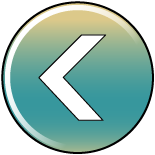
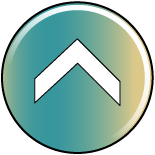
1. 하단에서 메뉴 올라오는 효과 2. 위치가 전체적으로 불규칙적인것같다. 전체적으로 수정해야할듯! -> 지금하지않으면 나중에 더힘들더질것같음. 3. 코드 정리 및 구조 정리 필요함..

diff --git a/Idolls/MyroomScene.cpp b/Idolls/MyroomScene.cpp
@@ -13,18 +13,24 @@ using namespace cocos2d;
 
 #define IMG_WIDTH 441
 
+CCSize winSize;
+
+CCLayerColor *bglayer;
+CCLayerColor *popoffMenuLayer;
+CCLayerColor *popupMenuLayer;
+
 CCScene* MyroomScene::scene()
 {
-
+    
     CCScene *scene = CCScene::create();
     
-
+    
     MyroomScene *layer = MyroomScene::create();
     
-
+    
     scene->addChild(layer);
     
-
+    
     return scene;
 }
 
@@ -37,18 +43,16 @@ bool MyroomScene::init()
         return false;
     }
     
+    // 디바이스 사이즈
+    //    CCSize winSize = CCDirector::sharedDirector()->getWinSize();
+    winSize = CCDirector::sharedDirector()->getWinSize();
     //배경
-    CCSprite *bg1 = CCSprite::create("background1.png");
-    bg1->setScale(1);
-    bg1->setPosition(ccp(160,240));
+    CCSprite *bg1 = CCSprite::create("myroom_background.png");
+    bg1->setScale(winSize.width/3200*2.5);
+    bg1->setPosition(ccp(winSize.width/2,winSize.height/2));
     
-    //헤더
-    CCSprite *hd1 = CCSprite::create("top_bar.png");
-    hd1->setPosition(ccp(160,455));
-    
-    
-//    마이룸배경레이어
-    CCLayerColor *bglayer= CCLayerColor::create(ccc4(255,0,255,255));
+    //    마이룸배경레이어
+    bglayer= CCLayerColor::create(ccc4(255,0,255,255));
     bglayer->setAnchorPoint(CCPointZero);
     bglayer->setPosition(ccp(0,0));
     bglayer->setContentSize(CCSizeMake(320,480));
@@ -66,65 +70,73 @@ bool MyroomScene::init()
     scrollView->setDelegate(this);
     this->addChild(scrollView);
     
-//    헤더레이어
-    CCLayerColor *hdlayer = CCLayerColor::create(ccc4(255,0,255,255));
-    hdlayer->setAnchorPoint(CCPointZero);
-    hdlayer->setPosition(ccp(0,0));
-    hdlayer->setContentSize(CCSizeMake(320, 50));
-    hdlayer->addChild(hd1);
-    
-//    헤더 코인/스타
-    CCMenuItemImage *pMenuStars = CCMenuItemImage::create("money_star_box.png","money_star_box.png",this, menu_selector(MyroomScene::stars));
-    CCMenuItemImage *pMenuCoins = CCMenuItemImage::create("money_coin_box.png","money_coin_box.png",this, menu_selector(MyroomScene::coins));
-
-    CCMenu* pHdMenu = CCMenu::create(pMenuStars,pMenuCoins,NULL);
-    pHdMenu->alignItemsHorizontally();
-    pHdMenu->setPosition(ccp(220,450));
-    
-    hdlayer->addChild(pHdMenu);
-    
-    CCSprite *nickName = CCSprite::create("nick_box.png");
-
-    nickName->setPosition(ccp(65,450));
-    hdlayer->addChild(nickName);
-    
-    this->addChild(hdlayer);
+    //    헤더레이어
+    /*
+     CCLayerColor *hdlayer = CCLayerColor::create(ccc4(255,0,255,255));
+     hdlayer->setAnchorPoint(CCPointZero);
+     hdlayer->setPosition(ccp(0,0));
+     hdlayer->setContentSize(CCSizeMake(320, 50));
+     hdlayer->addChild(hd1);*/
     
     
-//    캐릭터
-    maincharacter = CCSprite::create("character.png");
+    
+    //머니 박스
+    /*
+     CCSprite* money_box = CCSprite::create("money_box.png");
+     
+     money_box->setScale(winSize.width/3200*2.5);
+     
+     money_box->setPosition(ccp(winSize.width/10*6.7,winSize.height/10*9.6));
+     
+     this->addChild(money_box);*/
+    
+    
+    //    헤더 코인/스타
+    CCMenuItemImage *money_star_button = CCMenuItemImage::create("money_star_button.png","money_star_button.png",this, menu_selector(MyroomScene::stars));
+    
+    CCMenuItemImage *money_coin_button = CCMenuItemImage::create("money_coin_button.png","money_coin_button.png",this, menu_selector(MyroomScene::coins));
+    
+    CCMenu* moneyMenu = CCMenu::create(money_star_button, money_coin_button, NULL);
+    
+    moneyMenu->alignItemsHorizontally();
+    moneyMenu->setScale(winSize.width/3200*1.8);
+    moneyMenu->setPosition(ccp(winSize.width/10*2.6,winSize.height/10*5.5));
+    bglayer->getParent()->getParent()->addChild(moneyMenu);
+    
+    
+    //    캐릭터
+    maincharacter = CCSprite::create("character4.png");
+    maincharacter->setScale(0.5);
     maincharacter->setPosition(ccp(50,120));
     scrollView->addChild(maincharacter);
     
-//    캐릭터애니메이션
+    //    캐릭터애니메이션
     CCAnimation *animation = CCAnimation::create();
     animation->setDelayPerUnit(0.3);
-    animation->addSpriteFrameWithFileName("character2.png");
-    animation->addSpriteFrameWithFileName("character3.png");
-    animation->addSpriteFrameWithFileName("character.png");
+    animation->addSpriteFrameWithFileName("character5.png");
+    animation->addSpriteFrameWithFileName("character4.png");
+    animation->addSpriteFrameWithFileName("character5.png");
     CCAnimate *animate = CCAnimate::create(animation);
     CCAction *rep = CCRepeatForever::create(animate);
     maincharacter->runAction(rep);
     
     
+    //  하단메뉴
+    /*
+     popoffMenuLayer : 메뉴나오기 전 +버튼
+     popupMenuLayer  : +버튼 눌렀을 때 나오는 메뉴레이어
+     */
+    popoffMenuLayer = CCLayerColor::create(ccc4(255,0,255,255));
     
-    
-//    하단메뉴
-    CCLayerColor *menulayer = CCLayerColor::create(ccc4(255,0,255,255));
-    menulayer->setAnchorPoint(CCPointZero);
-    menulayer->setPosition(ccp(0,0));
-    menulayer->setContentSize(CCSizeMake(320,20));
-    
-    CCMenuItemImage *pMenuSchedule = CCMenuItemImage::create("schedule.png", "schedule.png", this, menu_selector(MyroomScene::schedule));
-    CCMenuItemImage *pMenuCloset = CCMenuItemImage::create("closet.png","closet.png",this, menu_selector(MyroomScene::closet));
-    CCMenuItemImage *pMenuDiary = CCMenuItemImage::create("diary.png", "diary.png", this, menu_selector(MyroomScene::diary));
-    CCMenu* pMenu = CCMenu::create(pMenuSchedule,pMenuCloset,pMenuDiary,NULL);
-    
-    pMenu->alignItemsHorizontally();
-    pMenu->setPosition(ccp(160,20));
-    menulayer->addChild(pMenu);
-    this->addChild(menulayer);
-    
+    popoffMenuLayer->setAnchorPoint(CCPointZero);
+    popoffMenuLayer->setContentSize(CCSizeMake(0,0));
+    CCMenuItemImage *popoffButton = CCMenuItemImage::create("menu_button_off.png", "menu_button_off.png",this, menu_selector(MyroomScene::popup));
+    popoffButton->setScale(winSize.width/3200*1.8);
+    CCMenu* popoffMenu = CCMenu::create(popoffButton,NULL);
+    popoffMenu->alignItemsHorizontally();
+    popoffMenu->setPosition(ccp(winSize.width/10*9,winSize.height/10*0.4));
+    popoffMenuLayer->addChild(popoffMenu);
+    bglayer->getParent()->getParent()->addChild(popoffMenuLayer);
     
     return true;
 }
@@ -132,8 +144,8 @@ bool MyroomScene::init()
 
 void MyroomScene::onEnter(){
     
-//    CCLayer::onEnter();
-//    CCDirector::sharedDirector()->getTouchDispatcher()->addTargetedDelegate(this, 1, true);
+    //    CCLayer::onEnter();
+    //    CCDirector::sharedDirector()->getTouchDispatcher()->addTargetedDelegate(this, 1, true);
     
     CCDirector* pDirector = CCDirector::sharedDirector();
     pDirector->getTouchDispatcher()->addTargetedDelegate(this, 0, true);
@@ -143,8 +155,8 @@ void MyroomScene::onEnter(){
 
 void MyroomScene::onExit(){
     
-//    CCDirector::sharedDirector()->getTouchDispatcher()->removeDelegate(this);
-//    CCLayer::onExit();
+    //    CCDirector::sharedDirector()->getTouchDispatcher()->removeDelegate(this);
+    //    CCLayer::onExit();
     
     CCDirector* pDirector = CCDirector::sharedDirector();
     pDirector->getTouchDispatcher()->removeDelegate(this);
@@ -172,7 +184,7 @@ void MyroomScene::ccTouchMoved(CCTouch *pTouch, CCEvent* event){
     CCPoint touchPoint = pTouch->getLocation();
     CCLOG("Touches Moved....(%f,%f)",touchPoint.x, touchPoint.y);
 }
-//터치 후 손가락을 화면에서 뗐을 때 이동
+//터치 후 손가락을 화면에서 뗐을 때 캐릭터이동
 void MyroomScene::ccTouchEnded(CCTouch *pTouch, CCEvent* event){
     CCPoint touchPoint = pTouch->getLocation();
     CCMoveTo* chMove = CCMoveTo::create(2,ccp(touchPoint.x, touchPoint.y));
@@ -182,12 +194,64 @@ void MyroomScene::ccTouchEnded(CCTouch *pTouch, CCEvent* event){
 
 void MyroomScene::ccTouchCancelled(CCTouch *pTouch, CCEvent* event){
     CCLOG("Touches Cancelled");
-
+    
 }
 
+/*
+ * 화살표 눌렀을 때 호출되는 메소드
+ * 아래에서 슝 올라옴
+ * Method when Direction Pointer is clicked
+ * Shuuoong Move to Up from Under the Display
+ */
+void MyroomScene::popup(){
+    popoffMenuLayer->setVisible(false);
+    
+    popupMenuLayer = CCLayerColor::create(ccc4(255,0,255,255));
+    popupMenuLayer->setAnchorPoint(CCPointZero);
+    //Move Up from Under
+    CCActionInterval* move = CCMoveTo::create(2, ccp(0,winSize.height/10*0.9));
+    CCActionInterval* move_ease_out = CCEaseElasticOut::create((CCActionInterval*)(move->copy()->autorelease()));
+    
+    popupMenuLayer->setContentSize(CCSizeMake(0,0));
+    CCMenuItemImage *pMenuSchedule = CCMenuItemImage::create("schedule_button.png", "schedule_button.png", this, menu_selector(MyroomScene::schedule));
+    CCMenuItemImage *pMenuCloset = CCMenuItemImage::create("closet_button.png","closet_button.png",this, menu_selector(MyroomScene::closet));
+    CCMenuItemImage *pMenuDiary = CCMenuItemImage::create("diary_button.png", "diary_button.png", this, menu_selector(MyroomScene::diary));
+    CCMenuItemImage *pMenuPopoff = CCMenuItemImage::create("menu_button_on.png","menu_button_on.png",this, menu_selector(MyroomScene::popoff));
+    
+    
+    pMenuSchedule->setScale(winSize.width/3200*2.8);
+    pMenuCloset->setScale(winSize.width/3200*2.8);
+    pMenuDiary->setScale(winSize.width/3200*2.8);
+    pMenuPopoff->setScale(winSize.width/3200*1.8);
+    
+    pMenuPopoff->setPosition(ccp(winSize.width/10*9,winSize.height/10*0.4));
+    CCMenu* pMenu = CCMenu::create(pMenuSchedule,pMenuCloset,pMenuDiary,pMenuPopoff,NULL);
+    
+    pMenu->alignItemsHorizontally();
+    
+    pMenu->setPosition(ccp(winSize.width/10*5,winSize.height/10*-0.1));
+    popupMenuLayer->addChild(pMenu);
+    popupMenuLayer->runAction(move_ease_out);
+    bglayer->getParent()->getParent()->getParent()->addChild(popupMenuLayer);
+    
+}
+/*
+ * x 아이콘을 눌렀을 때 사라지고 다시
+ * 화살표가 나오도록 함
+ * Direction Pointer appear when 'X' Button is clicked
+ */
+void MyroomScene::popoff(){
+    popupMenuLayer->setVisible(false);
+    popoffMenuLayer->setVisible(true);
+    popoffMenuLayer->setPosition(ccp(0,winSize.height/10*-0.1));
+    
+    //Move Up from Under
+    CCActionInterval* move = CCMoveTo::create(2, ccp(0,winSize.height/10*0.3));
+    CCActionInterval* move_ease_out = CCEaseElasticOut::create((CCActionInterval*)(move->copy()->autorelease()));
+    popoffMenuLayer->runAction(move_ease_out);
+}
 
 void MyroomScene::schedule(){
-    
 }
 void MyroomScene::closet(){
     

diff --git a/Idolls/MyroomScene.h b/Idolls/MyroomScene.h
@@ -17,7 +17,7 @@ USING_NS_CC_EXT;
 
 
 class MyroomScene : public cocos2d::CCLayerColor,
-        public CCScrollViewDelegate
+public CCScrollViewDelegate
 {
     
 public:
@@ -40,11 +40,13 @@ public:
     virtual void ccTouchEnded(CCTouch *pTouch, CCEvent *pEvent);
     virtual void ccTouchCancelled(CCTouch *pTouch, CCEvent *pEvent);
     
+    virtual void popup();
     virtual void schedule();
     virtual void closet();
     virtual void diary();
     virtual void stars();
     virtual void coins();
+    virtual void popoff();
     
     cocos2d::CCSprite* maincharacter;
     
